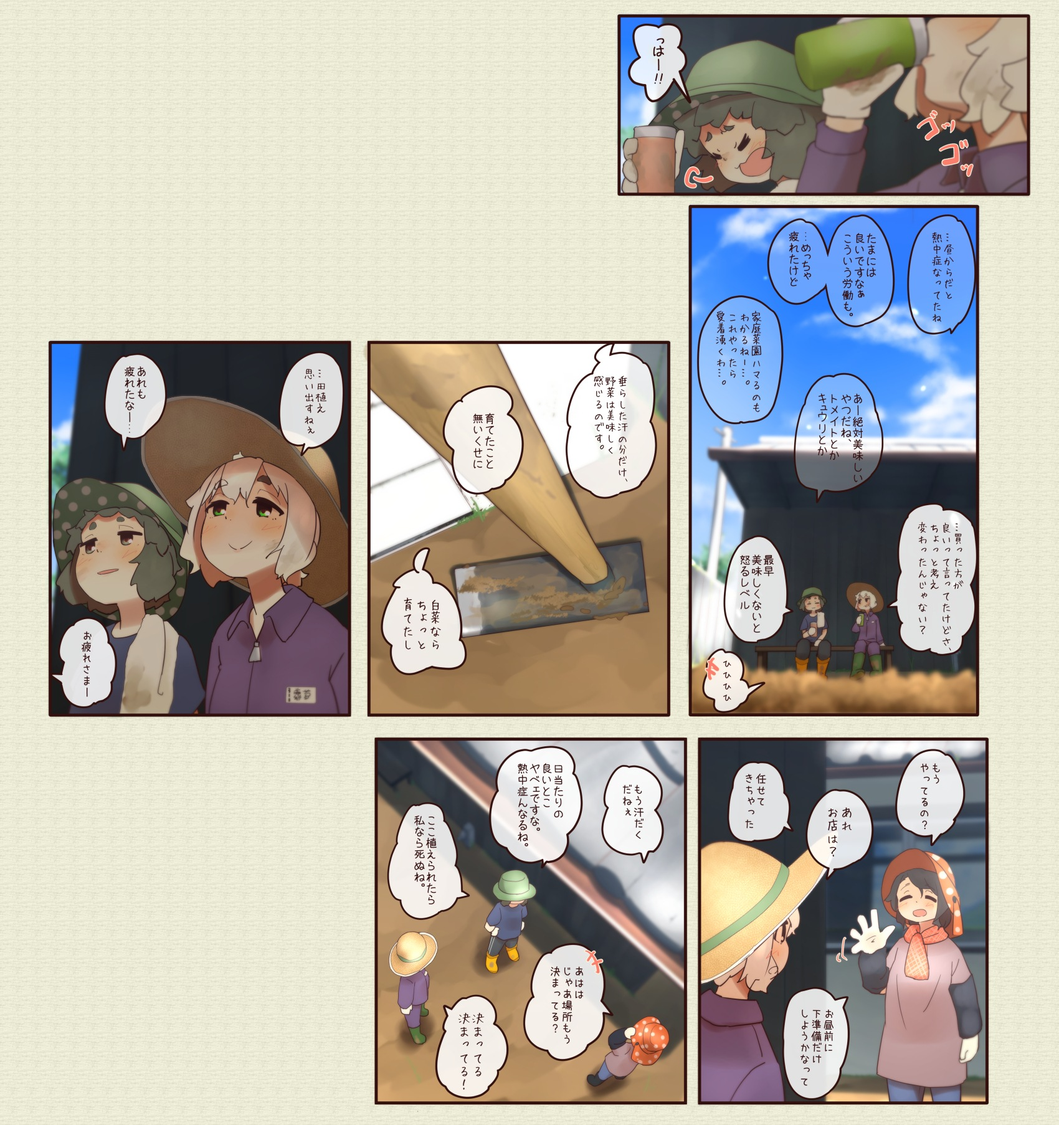
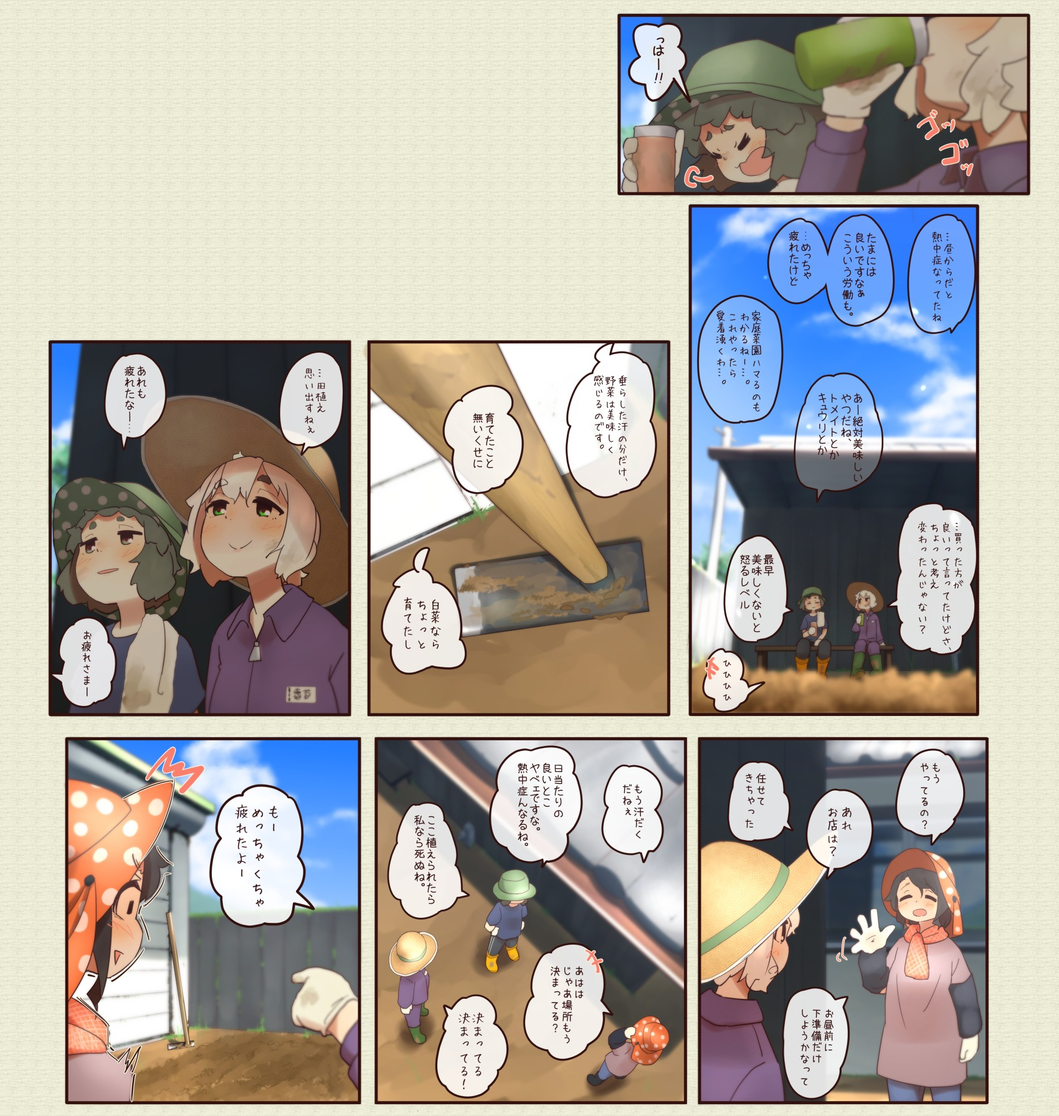
update: auto updated 4komaData by workflow

diff --git a/4komaData.js b/4komaData.js
@@ -267,4 +267,4 @@ pageData = [
 {"Title": "戦友", "ImagesUrl": ["https://mo4koma.iranika.info/4koma/ja/266-1.jpg", "https://mo4koma.iranika.info/4koma/ja/266-2.jpg", "https://mo4koma.iranika.info/4koma/ja/266-3.jpg", "https://mo4koma.iranika.info/4koma/ja/sp.jpg"]},
 {"Title": "怖い話", "ImagesUrl": ["https://mo4koma.iranika.info/4koma/ja/267-1.jpg", "https://mo4koma.iranika.info/4koma/ja/267-2.jpg", "https://mo4koma.iranika.info/4koma/ja/sp.jpg"]},
 {"Title": "雲博士", "ImagesUrl": ["https://mo4koma.iranika.info/4koma/ja/268-1.jpg", "https://mo4koma.iranika.info/4koma/ja/sp.jpg"]},
-{"Title": "家庭菜園", "ImagesUrl": ["https://mo4koma.iranika.info/4koma/ja/269-1.jpg", "https://mo4koma.iranika.info/4koma/ja/269-2.jpg", "https://mo4koma.iranika.info/4koma/ja/sp.jpg"]}]
+{"Title": "家庭菜園", "ImagesUrl": ["https://mo4koma.iranika.info/4koma/ja/269-1.jpg", "https://mo4koma.iranika.info/4koma/ja/269-2.jpg", "https://mo4koma.iranika.info/4koma/ja/269-3.jpg", "https://mo4koma.iranika.info/4koma/ja/sp.jpg"]}]
